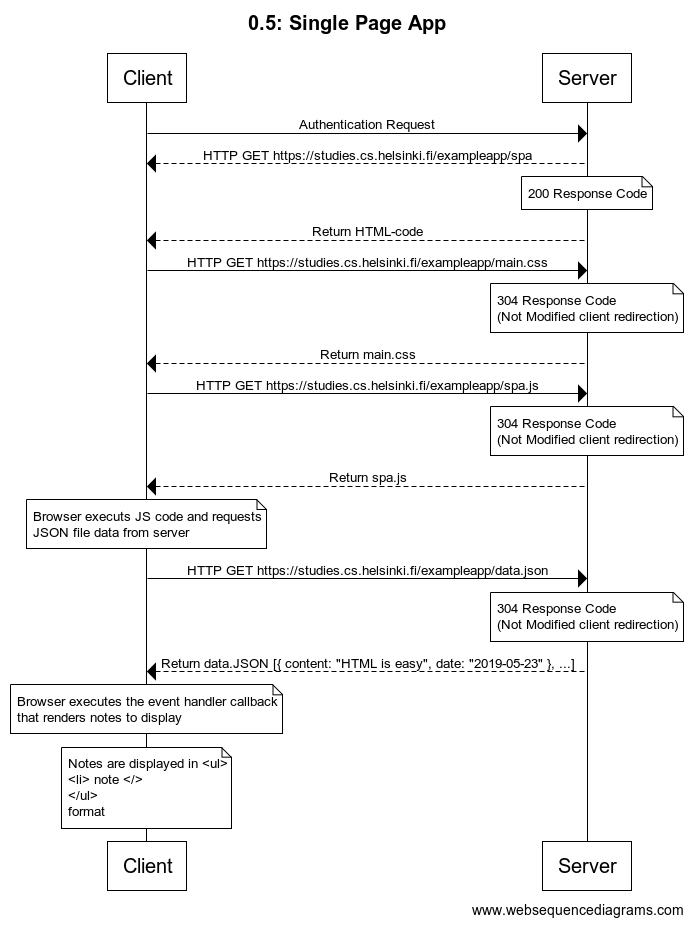
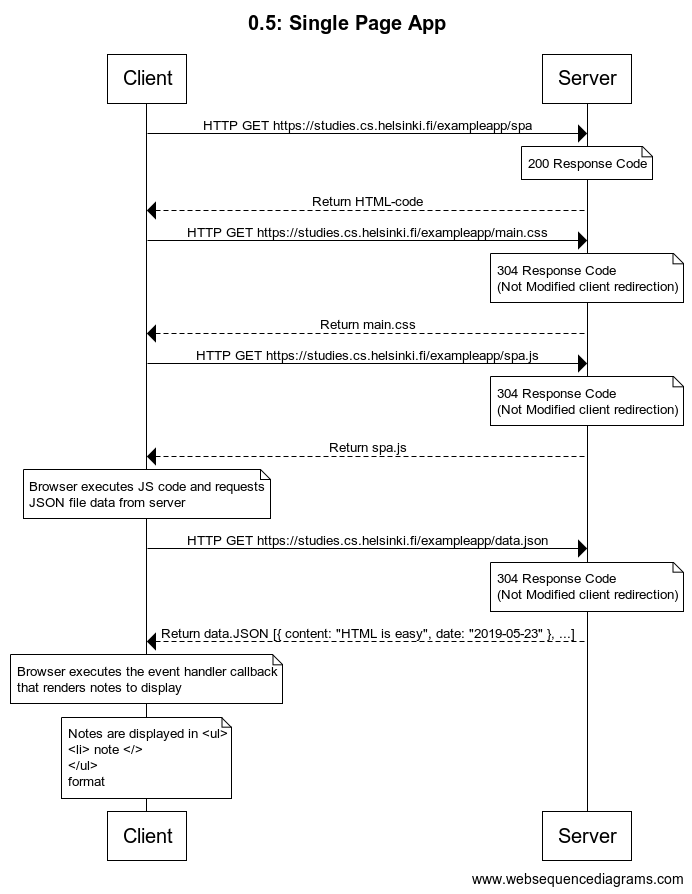
Part 0 Complete

diff --git a/Part 0/title 0.6: New note.md b/Part 0/title 0.6: New note.md
@@ -1,0 +1,20 @@
+title 0.6: New note
+
+Client->Server: HTTP POST https://studies.cs.helsinki.fi/exampleapp/new_note_spa
+
+note over Server:
+POST new note to address /new_note_spa 
+in JSON type format
+end note 
+
+note over Server:
+201 Response Code
+end note 
+
+Server-->Client: Server responds with new updated JSON data
+
+note over Client:
+Browser executes JS code function redrawNotes()
+and dynamically displays new notes 
+without NY URL redirects or reloads
+end note

diff --git a/Part 0/title 0.5: Single Page App.md b/Part 0/title 0.5: Single Page App.md
@@ -1,7 +1,6 @@
 title 0.5: Single Page App
 
-Client->Server: Authentication Request
-Server-->Client: HTTP GET https://studies.cs.helsinki.fi/exampleapp/spa
+Client->Server: HTTP GET https://studies.cs.helsinki.fi/exampleapp/spa
 
 note over Server:
 200 Response Code
@@ -26,7 +25,7 @@ end note
 Server-->Client: Return spa.js
 
 note over Client:
-Browser executs JS code and requests 
+Browser executes JS code and requests 
 JSON file data from server 
 end note
 
